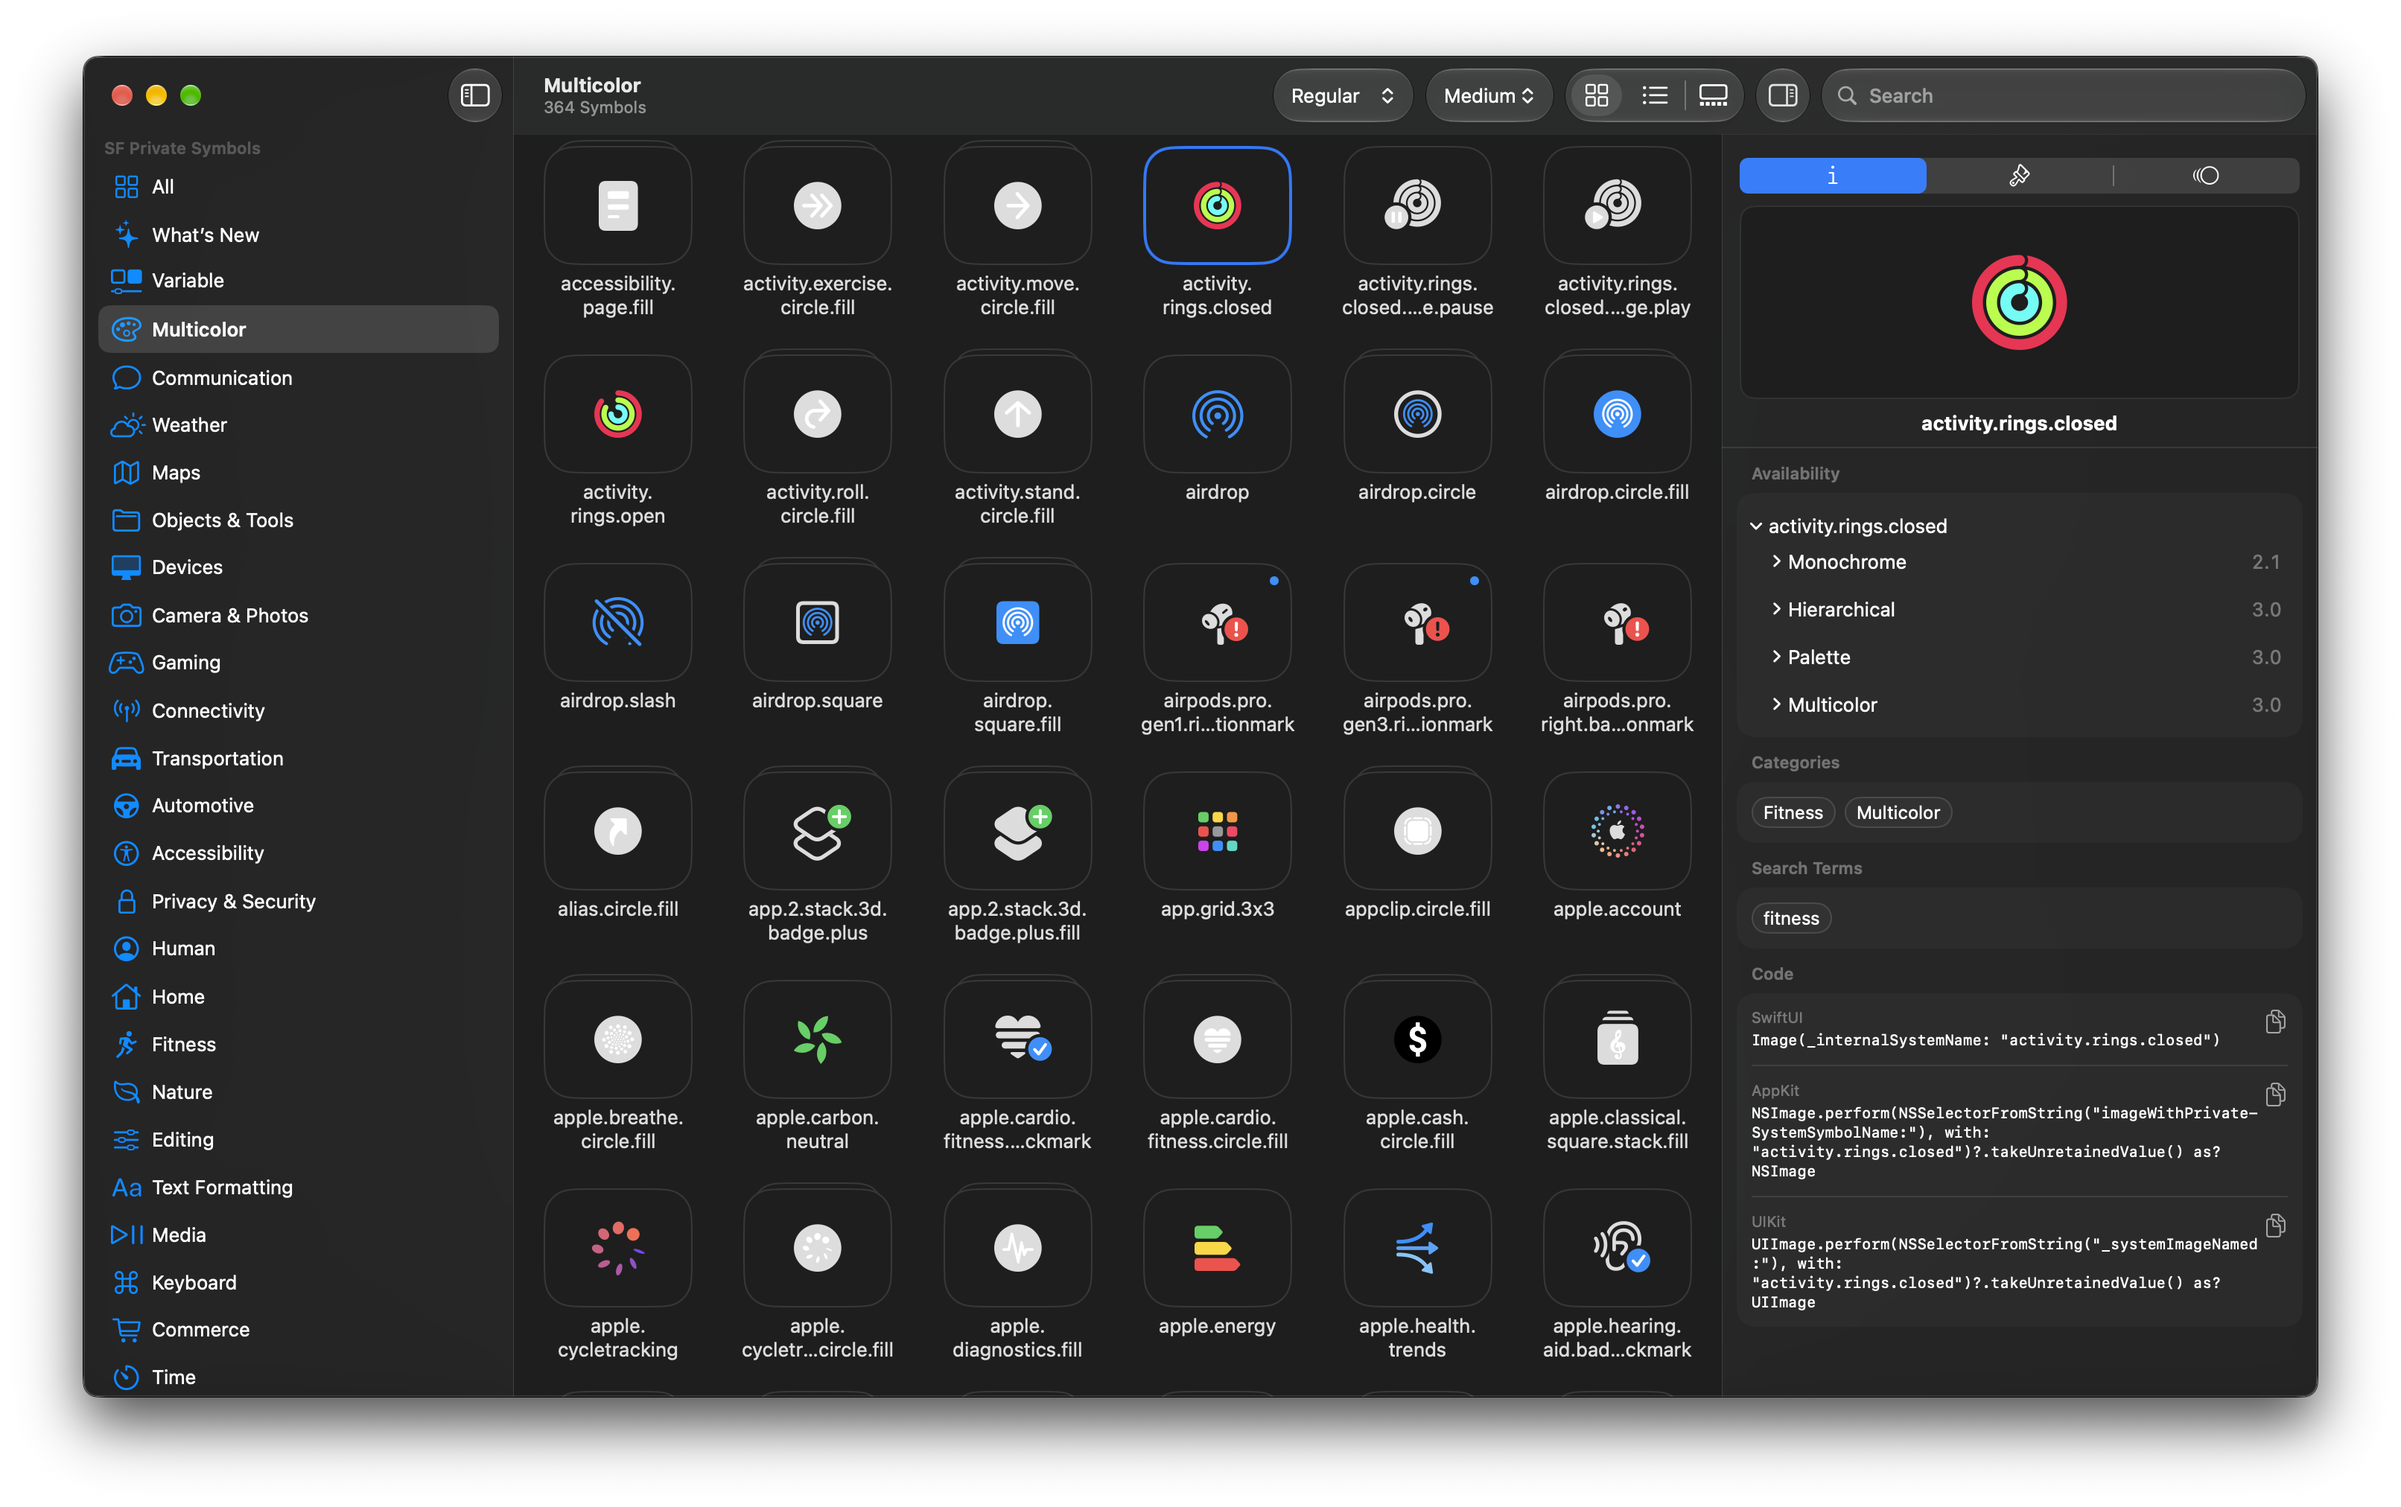
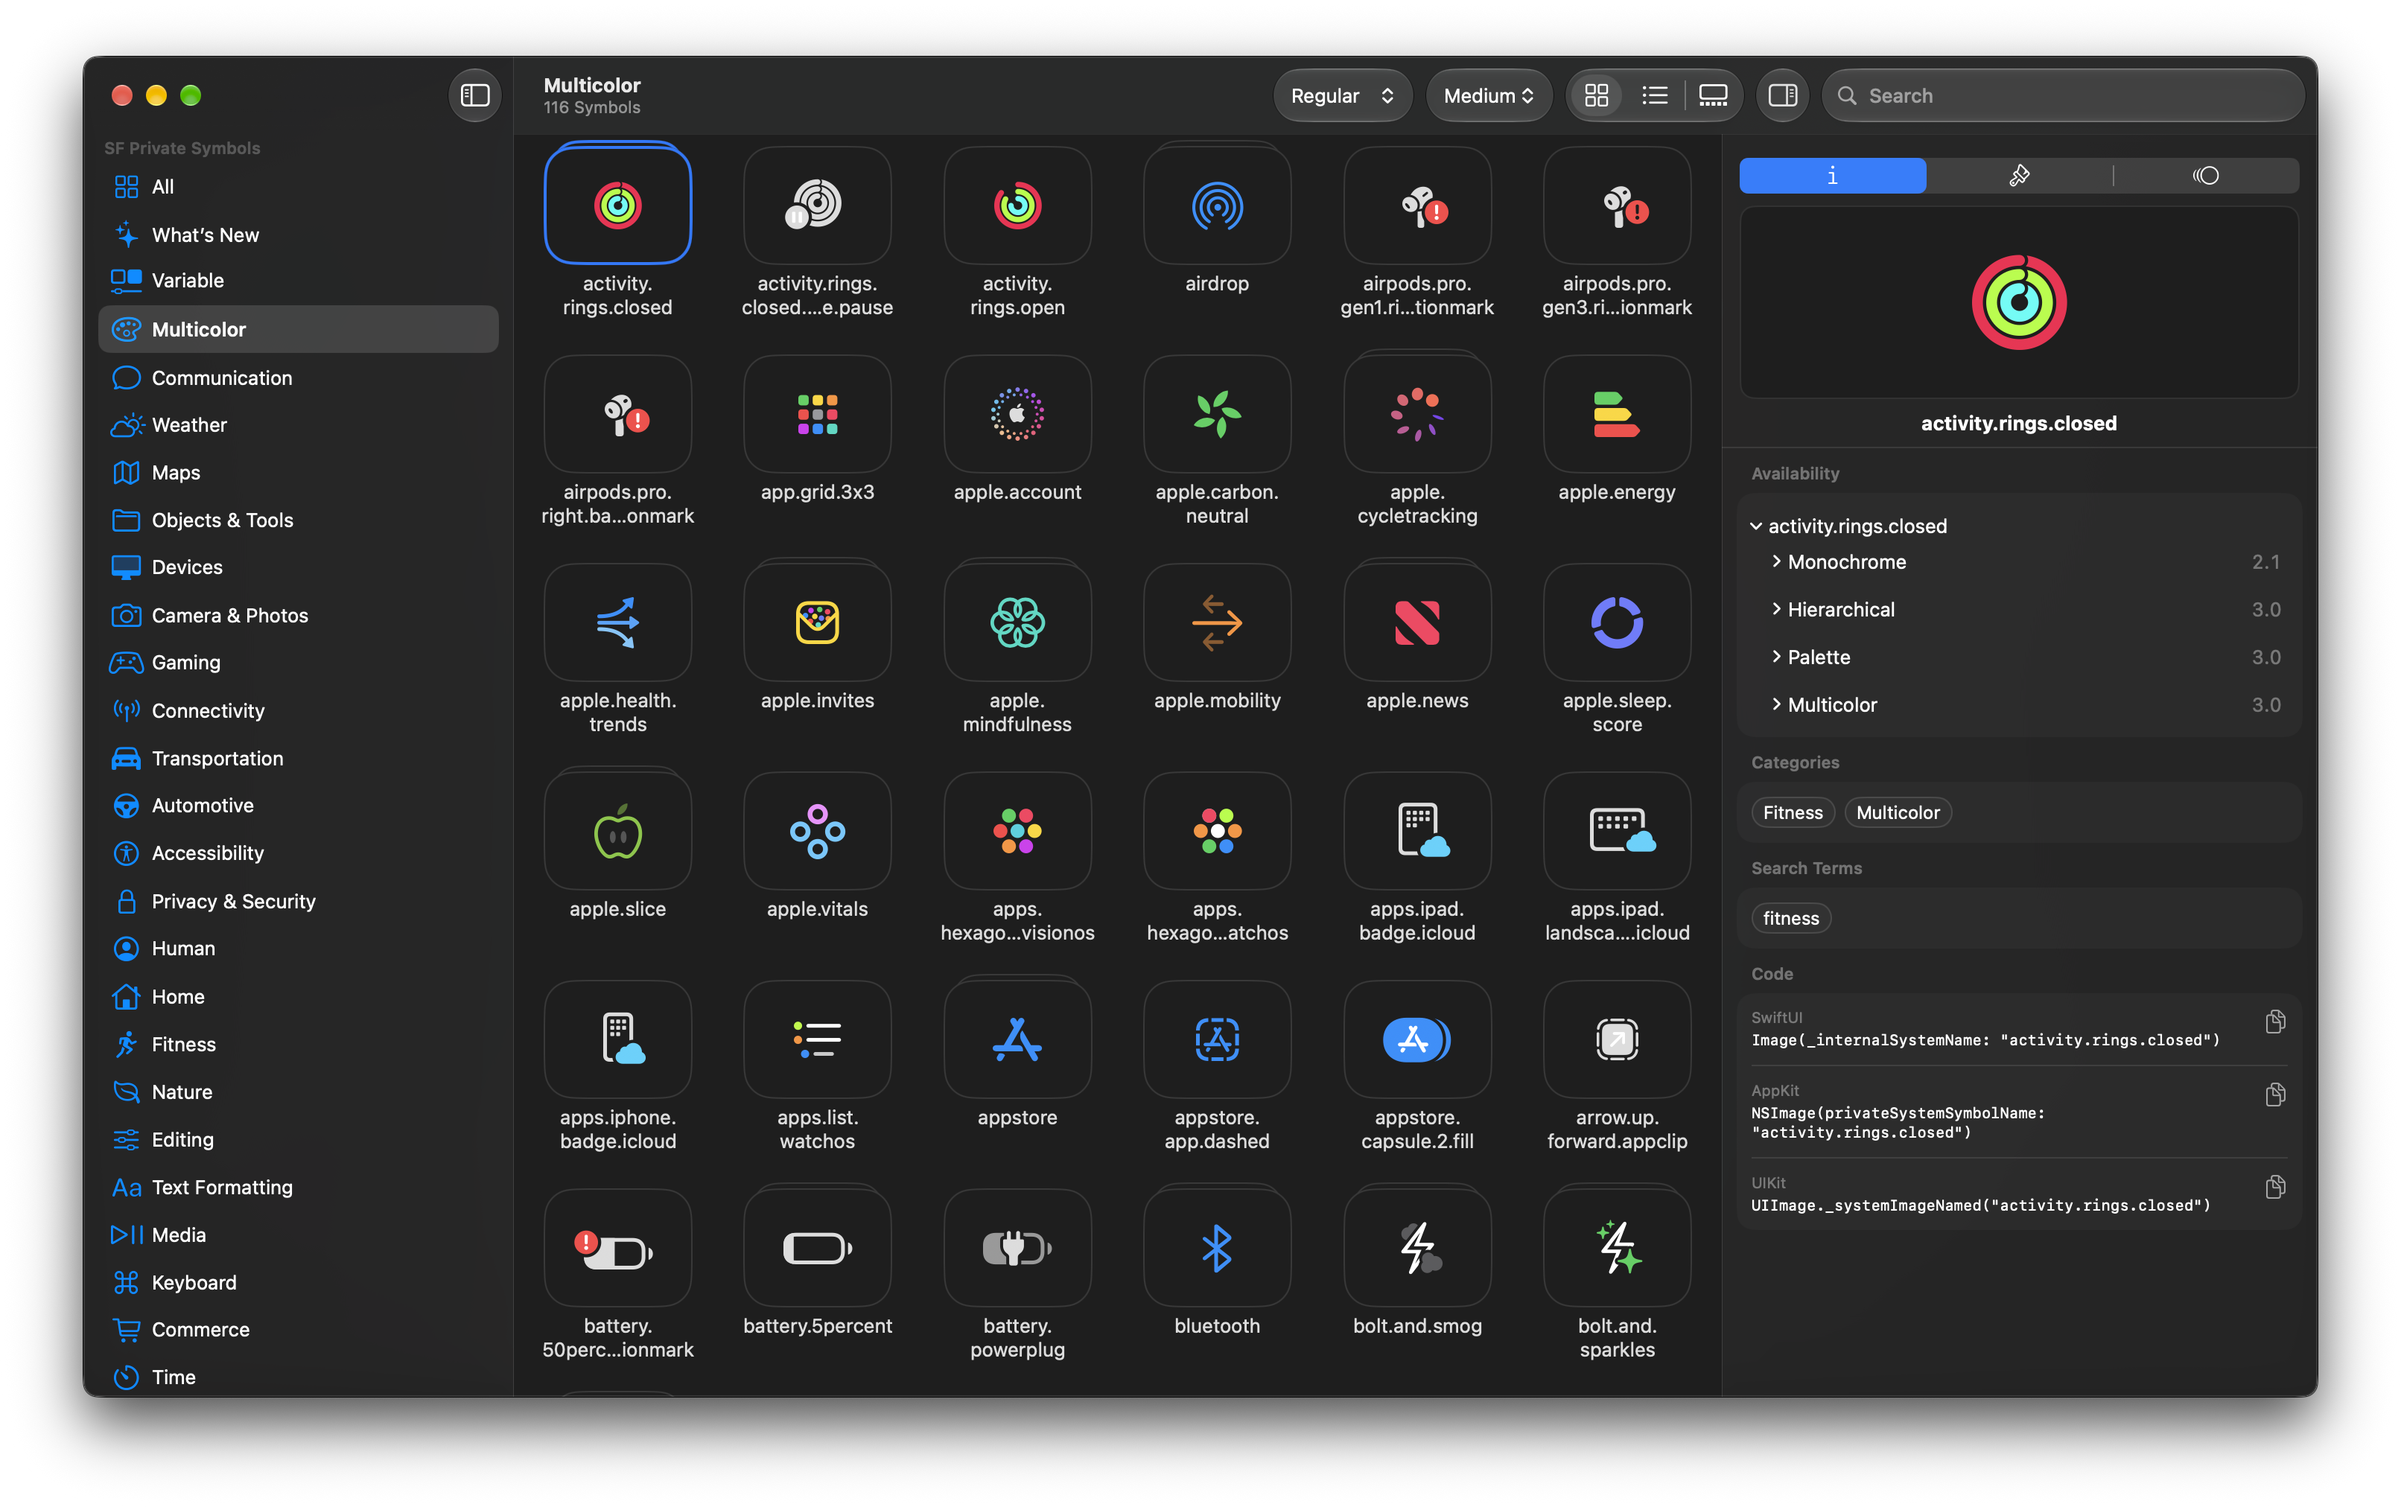
Remove the new-symbol dot from grid tiles; refresh screenshots
SF Symbols doesn't mark new symbols in the grid. The README and website screenshots are
regenerated to match, and now also show variant grouping and the header-style code.

diff --git a/SFPrivateSymbols/SymbolGridView.swift b/SFPrivateSymbols/SymbolGridView.swift
@@ -119,15 +119,6 @@ struct SymbolTile: View {
 						.offset(y: -4 * scale)
 				}
 			}
-			.overlay(alignment: .topTrailing) {
-				if symbol.isNew {
-					Circle()
-						.fill(.blue)
-						.frame(width: 6, height: 6)
-						.padding(9 * scale)
-						.help("New")
-				}
-			}
 			.padding(.top, 8 * scale)
 
 			Text(displayName)

diff --git a/SFPrivateSymbols/ContentView.swift b/SFPrivateSymbols/ContentView.swift
@@ -52,7 +52,7 @@ struct ContentView: View {
 		}
 		.inspector(isPresented: $model.showsInspector) {
 			InspectorView()
-				.inspectorColumnWidth(min: 280, ideal: 400, max: 480)
+				.inspectorColumnWidth(min: 400, ideal: 400, max: 480)
 		}
 		.toolbar {
 			if model.variantsBase != nil {
